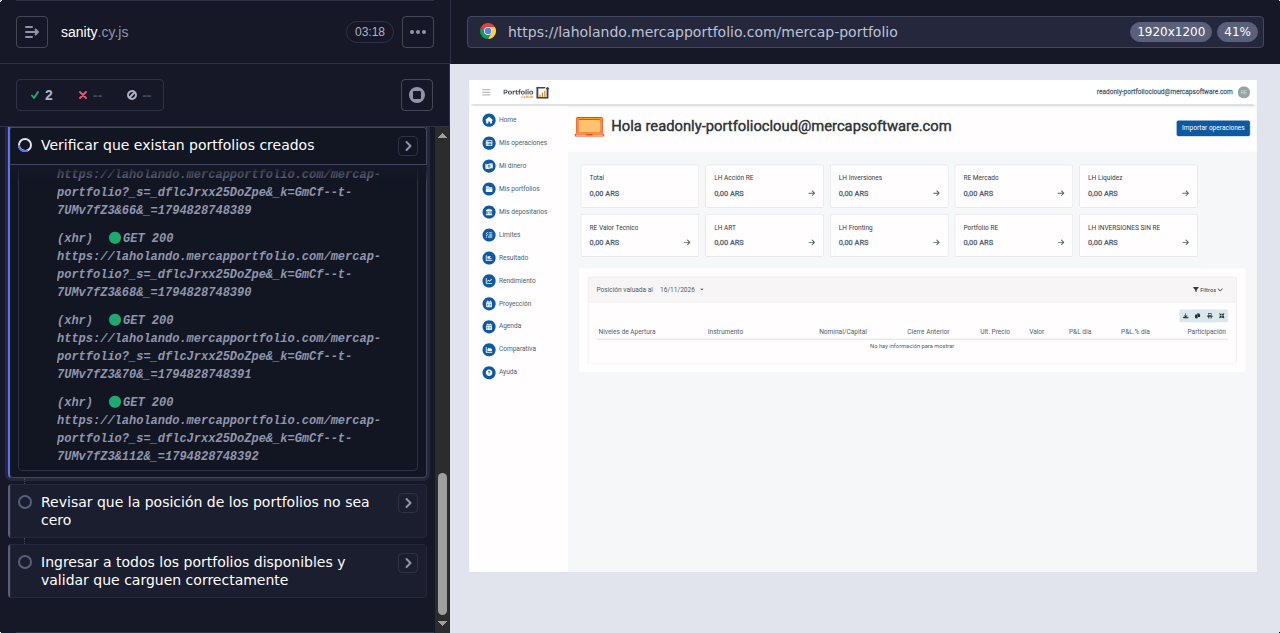
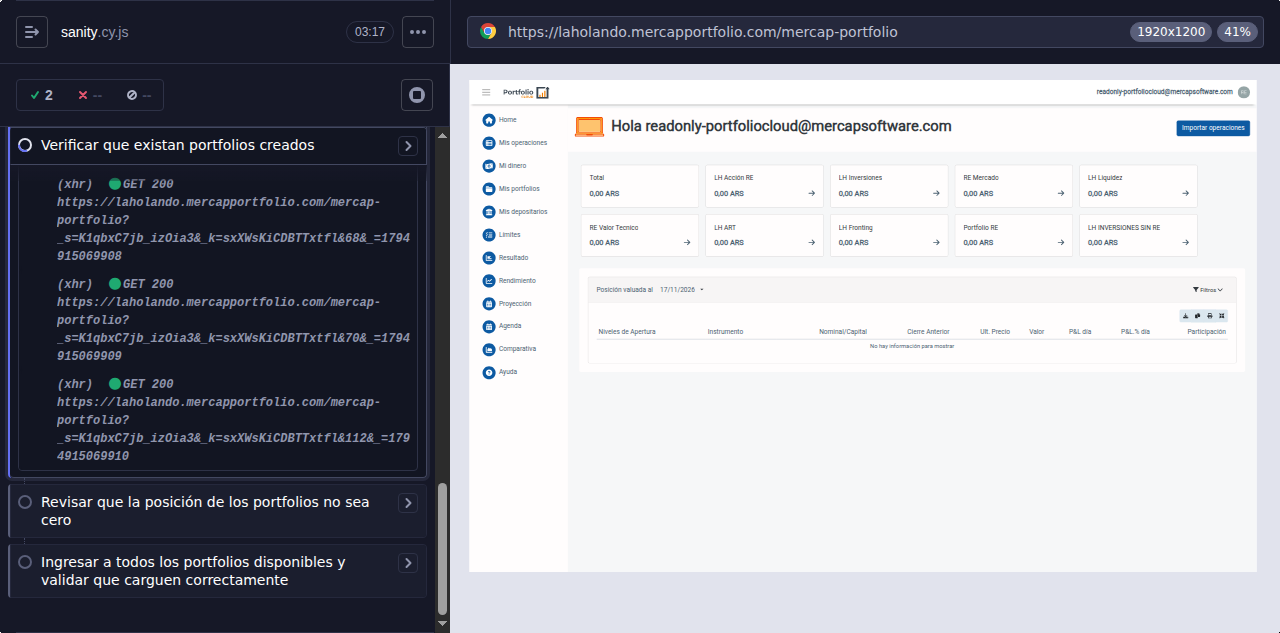
deploy: Mercap/portfolio-qa-tests@4aeec43ded94edbb944f34a9a0a7dde37aa3ffd3

Changed region(s): [[0.0312, 0.2701, 0.3125, 0.7504]]

diff --git a/mpc/Production/LH/sanity/index.html b/mpc/Production/LH/sanity/index.html
@@ -1,2 +1,2 @@
 <!doctype html>
-<html lang="en"><head><meta charSet="utf-8"/><meta http-equiv="X-UA-Compatible" content="IE=edge"/><meta name="viewport" content="width=device-width, initial-scale=1"/><title>Mochawesome Report</title><link rel="stylesheet" href="assets/app.css"/></head><body data-raw="{&quot;stats&quot;:{&quot;suites&quot;:1,&quot;tests&quot;:5,&quot;passes&quot;:2,&quot;pending&quot;:1,&quot;failures&quot;:1,&quot;testsRegistered&quot;:5,&quot;passPercent&quot;:40,&quot;pendingPercent&quot;:20,&quot;other&quot;:0,&quot;hasOther&quot;:false,&quot;skipped&quot;:1,&quot;hasSkipped&quot;:true,&quot;start&quot;:&quot;2026-11-16T11:32:11.868Z&quot;,&quot;end&quot;:&quot;2026-11-16T11:35:31.312Z&quot;,&quot;duration&quot;:199444},&quot;results&quot;:[{&quot;uuid&quot;:&quot;8dff92e3-c736-40ec-92f6-e4d2c8bcbb37&quot;,&quot;title&quot;:&quot;&quot;,&quot;fullFile&quot;:&quot;build/production/laholando/specs/sanity/sanity.cy.js&quot;,&quot;file&quot;:&quot;build/production/laholando/specs/sanity/sanity.cy.js&quot;,&quot;beforeHooks&quot;:[],&quot;afterHooks&quot;:[],&quot;tests&quot;:[],&quot;suites&quot;:[{&quot;uuid&quot;:&quot;8623993a-0679-4de4-bcc5-a0760aa8e32b&quot;,&quot;title&quot;:&quot;Precondición Admin Login&quot;,&quot;fullFile&quot;:&quot;&quot;,&quot;file&quot;:&quot;&quot;,&quot;beforeHooks&quot;:[],&quot;afterHooks&quot;:[],&quot;tests&quot;:[{&quot;title&quot;:&quot;Ingresar y hacer login en el admin de MPC&quot;,&quot;fullTitle&quot;:&quot;Precondición Admin Login Ingresar y hacer login en el admin de MPC&quot;,&quot;timedOut&quot;:null,&quot;duration&quot;:8585,&quot;state&quot;:&quot;passed&quot;,&quot;speed&quot;:&quot;medium&quot;,&quot;pass&quot;:true,&quot;fail&quot;:false,&quot;pending&quot;:false,&quot;context&quot;:null,&quot;code&quot;:&quot;cy.adminLoginMPC();&quot;,&quot;err&quot;:{},&quot;uuid&quot;:&quot;ee4a7851-7391-417b-b75b-9784ed51ff3e&quot;,&quot;parentUUID&quot;:&quot;8623993a-0679-4de4-bcc5-a0760aa8e32b&quot;,&quot;isHook&quot;:false,&quot;skipped&quot;:false}],&quot;suites&quot;:[],&quot;passes&quot;:[&quot;ee4a7851-7391-417b-b75b-9784ed51ff3e&quot;],&quot;failures&quot;:[],&quot;pending&quot;:[],&quot;skipped&quot;:[],&quot;duration&quot;:8585,&quot;root&quot;:false,&quot;rootEmpty&quot;:false,&quot;_timeout&quot;:2000},{&quot;uuid&quot;:&quot;c53f4d1b-a819-4ab0-bf39-4741a0da1cc3&quot;,&quot;title&quot;:&quot;Precondición MPC Login&quot;,&quot;fullFile&quot;:&quot;&quot;,&quot;file&quot;:&quot;&quot;,&quot;beforeHooks&quot;:[],&quot;afterHooks&quot;:[],&quot;tests&quot;:[{&quot;title&quot;:&quot;Login en MPC&quot;,&quot;fullTitle&quot;:&quot;Precondición MPC Login Login en MPC&quot;,&quot;timedOut&quot;:null,&quot;duration&quot;:2144,&quot;state&quot;:&quot;passed&quot;,&quot;speed&quot;:&quot;fast&quot;,&quot;pass&quot;:true,&quot;fail&quot;:false,&quot;pending&quot;:false,&quot;context&quot;:null,&quot;code&quot;:&quot;cy.visit(_support_constants__WEBPACK_IMPORTED_MODULE_0__[\&quot;default\&quot;].MPC_LOCATION);&quot;,&quot;err&quot;:{},&quot;uuid&quot;:&quot;c76c2eec-ab1f-4f9a-8307-0375bed0baa3&quot;,&quot;parentUUID&quot;:&quot;c53f4d1b-a819-4ab0-bf39-4741a0da1cc3&quot;,&quot;isHook&quot;:false,&quot;skipped&quot;:false}],&quot;suites&quot;:[],&quot;passes&quot;:[&quot;c76c2eec-ab1f-4f9a-8307-0375bed0baa3&quot;],&quot;failures&quot;:[],&quot;pending&quot;:[],&quot;skipped&quot;:[],&quot;duration&quot;:2144,&quot;root&quot;:false,&quot;rootEmpty&quot;:false,&quot;_timeout&quot;:2000},{&quot;uuid&quot;:&quot;a1bf3f25-8714-4116-99ae-e1bc98f3bf6d&quot;,&quot;title&quot;:&quot;Verificar la posición valuada de los portfolios&quot;,&quot;fullFile&quot;:&quot;&quot;,&quot;file&quot;:&quot;&quot;,&quot;beforeHooks&quot;:[],&quot;afterHooks&quot;:[],&quot;tests&quot;:[{&quot;title&quot;:&quot;Verificar que existan portfolios creados&quot;,&quot;fullTitle&quot;:&quot;Verificar la posición valuada de los portfolios Verificar que existan portfolios creados&quot;,&quot;timedOut&quot;:null,&quot;duration&quot;:180276,&quot;state&quot;:&quot;failed&quot;,&quot;speed&quot;:null,&quot;pass&quot;:false,&quot;fail&quot;:true,&quot;pending&quot;:false,&quot;context&quot;:null,&quot;code&quot;:&quot;cy.validacionesHome();\n    cy.skipEncuesta();&quot;,&quot;err&quot;:{&quot;message&quot;:&quot;AssertionError: Timed out retrying after 180000ms: Expected to find element: `rect[class=\&quot;highcharts-background\&quot;]`, but never found it.&quot;,&quot;estack&quot;:&quot;AssertionError: Timed out retrying after 180000ms: Expected to find element: `rect[class=\&quot;highcharts-background\&quot;]`, but never found it.\n    at Context.eval (webpack://cypress/./cypress/support/commands/home.commands.js:191:0)\n    at wrapped (https://mercap.auth0.com/__cypress/runner/cypress_runner.js:146042:43)&quot;,&quot;diff&quot;:null},&quot;uuid&quot;:&quot;dd36211b-ba30-453a-8fa8-5a30b30041be&quot;,&quot;parentUUID&quot;:&quot;a1bf3f25-8714-4116-99ae-e1bc98f3bf6d&quot;,&quot;isHook&quot;:false,&quot;skipped&quot;:false},{&quot;title&quot;:&quot;Revisar que la posición de los portfolios no sea cero&quot;,&quot;fullTitle&quot;:&quot;Verificar la posición valuada de los portfolios Revisar que la posición de los portfolios no sea cero&quot;,&quot;timedOut&quot;:null,&quot;duration&quot;:0,&quot;state&quot;:&quot;pending&quot;,&quot;speed&quot;:null,&quot;pass&quot;:false,&quot;fail&quot;:false,&quot;pending&quot;:true,&quot;context&quot;:null,&quot;code&quot;:&quot;cy.validarPortfoliosSinValorCero(&#x27;h6&#x27;, &#x27;h4&#x27;);&quot;,&quot;err&quot;:{},&quot;uuid&quot;:&quot;e25e78d3-6f2e-460f-9f6e-d73d50fc00bc&quot;,&quot;parentUUID&quot;:&quot;a1bf3f25-8714-4116-99ae-e1bc98f3bf6d&quot;,&quot;isHook&quot;:false,&quot;skipped&quot;:false},{&quot;title&quot;:&quot;Ingresar a todos los portfolios disponibles y validar que carguen correctamente&quot;,&quot;fullTitle&quot;:&quot;Verificar la posición valuada de los portfolios Ingresar a todos los portfolios disponibles y validar que carguen correctamente&quot;,&quot;timedOut&quot;:null,&quot;duration&quot;:0,&quot;state&quot;:&quot;skipped&quot;,&quot;speed&quot;:null,&quot;pass&quot;:false,&quot;fail&quot;:false,&quot;pending&quot;:false,&quot;context&quot;:null,&quot;code&quot;:&quot;cy.contains(&#x27;Mis portfolios&#x27;, { matchCase: false }).click();\n    cy.validacionesMisPortfolios();\n    cy.recorridaPortfolios();&quot;,&quot;err&quot;:{},&quot;uuid&quot;:&quot;6157f1f2-a72b-4878-aeec-15467a082cd9&quot;,&quot;parentUUID&quot;:&quot;a1bf3f25-8714-4116-99ae-e1bc98f3bf6d&quot;,&quot;isHook&quot;:false,&quot;skipped&quot;:true}],&quot;suites&quot;:[],&quot;passes&quot;:[],&quot;failures&quot;:[&quot;dd36211b-ba30-453a-8fa8-5a30b30041be&quot;],&quot;pending&quot;:[&quot;e25e78d3-6f2e-460f-9f6e-d73d50fc00bc&quot;],&quot;skipped&quot;:[&quot;6157f1f2-a72b-4878-aeec-15467a082cd9&quot;],&quot;duration&quot;:180276,&quot;root&quot;:false,&quot;rootEmpty&quot;:false,&quot;_timeout&quot;:2000}],&quot;passes&quot;:[],&quot;failures&quot;:[],&quot;pending&quot;:[],&quot;skipped&quot;:[],&quot;duration&quot;:0,&quot;root&quot;:true,&quot;rootEmpty&quot;:true,&quot;_timeout&quot;:2000}],&quot;meta&quot;:{&quot;mocha&quot;:{&quot;version&quot;:&quot;7.2.0&quot;},&quot;mochawesome&quot;:{&quot;options&quot;:{&quot;quiet&quot;:false,&quot;reportFilename&quot;:&quot;report&quot;,&quot;saveHtml&quot;:true,&quot;saveJson&quot;:true,&quot;consoleReporter&quot;:&quot;spec&quot;,&quot;useInlineDiffs&quot;:false,&quot;code&quot;:true},&quot;version&quot;:&quot;7.1.4&quot;},&quot;marge&quot;:{&quot;options&quot;:{&quot;reportDir&quot;:&quot;cypress/reports&quot;,&quot;overwrite&quot;:false,&quot;cleanReporterJson&quot;:false,&quot;html&quot;:true,&quot;json&quot;:true,&quot;reportFilename&quot;:&quot;report&quot;,&quot;embeddedScreenshots&quot;:true,&quot;inlineAssets&quot;:true},&quot;version&quot;:&quot;6.3.2&quot;}}}" data-config="{&quot;reportFilename&quot;:&quot;index&quot;,&quot;reportDir&quot;:&quot;cypress/reports&quot;,&quot;reportTitle&quot;:&quot;portfolio-qa-tests&quot;,&quot;reportPageTitle&quot;:&quot;Mochawesome Report&quot;,&quot;inline&quot;:false,&quot;inlineAssets&quot;:false,&quot;cdn&quot;:false,&quot;charts&quot;:false,&quot;enableCharts&quot;:false,&quot;code&quot;:true,&quot;enableCode&quot;:true,&quot;autoOpen&quot;:false,&quot;overwrite&quot;:true,&quot;timestamp&quot;:false,&quot;ts&quot;:false,&quot;showPassed&quot;:true,&quot;showFailed&quot;:true,&quot;showPending&quot;:true,&quot;showSkipped&quot;:false,&quot;showHooks&quot;:&quot;failed&quot;,&quot;saveJson&quot;:false,&quot;saveHtml&quot;:true,&quot;dev&quot;:false,&quot;assetsDir&quot;:&quot;cypress/reports/assets&quot;,&quot;htmlFile&quot;:&quot;/home/runner/work/portfolio-qa-tests/portfolio-qa-tests/cypress/reports/index.html&quot;}"><div id="report"></div><script src="assets/app.js"></script></body></html>
+<html lang="en"><head><meta charSet="utf-8"/><meta http-equiv="X-UA-Compatible" content="IE=edge"/><meta name="viewport" content="width=device-width, initial-scale=1"/><title>Mochawesome Report</title><link rel="stylesheet" href="assets/app.css"/></head><body data-raw="{&quot;stats&quot;:{&quot;suites&quot;:1,&quot;tests&quot;:5,&quot;passes&quot;:2,&quot;pending&quot;:1,&quot;failures&quot;:1,&quot;testsRegistered&quot;:5,&quot;passPercent&quot;:40,&quot;pendingPercent&quot;:20,&quot;other&quot;:0,&quot;hasOther&quot;:false,&quot;skipped&quot;:1,&quot;hasSkipped&quot;:true,&quot;start&quot;:&quot;2026-11-17T11:30:55.326Z&quot;,&quot;end&quot;:&quot;2026-11-17T11:34:13.888Z&quot;,&quot;duration&quot;:198562},&quot;results&quot;:[{&quot;uuid&quot;:&quot;04fcb2ab-dc9b-437d-bb02-317ac7af2fbb&quot;,&quot;title&quot;:&quot;&quot;,&quot;fullFile&quot;:&quot;build/production/laholando/specs/sanity/sanity.cy.js&quot;,&quot;file&quot;:&quot;build/production/laholando/specs/sanity/sanity.cy.js&quot;,&quot;beforeHooks&quot;:[],&quot;afterHooks&quot;:[],&quot;tests&quot;:[],&quot;suites&quot;:[{&quot;uuid&quot;:&quot;b5426bb8-7e79-4d81-be3c-ed2e3e7bb835&quot;,&quot;title&quot;:&quot;Precondición Admin Login&quot;,&quot;fullFile&quot;:&quot;&quot;,&quot;file&quot;:&quot;&quot;,&quot;beforeHooks&quot;:[],&quot;afterHooks&quot;:[],&quot;tests&quot;:[{&quot;title&quot;:&quot;Ingresar y hacer login en el admin de MPC&quot;,&quot;fullTitle&quot;:&quot;Precondición Admin Login Ingresar y hacer login en el admin de MPC&quot;,&quot;timedOut&quot;:null,&quot;duration&quot;:6693,&quot;state&quot;:&quot;passed&quot;,&quot;speed&quot;:&quot;medium&quot;,&quot;pass&quot;:true,&quot;fail&quot;:false,&quot;pending&quot;:false,&quot;context&quot;:null,&quot;code&quot;:&quot;cy.adminLoginMPC();&quot;,&quot;err&quot;:{},&quot;uuid&quot;:&quot;be442c39-d713-45df-abe5-a86d3029df82&quot;,&quot;parentUUID&quot;:&quot;b5426bb8-7e79-4d81-be3c-ed2e3e7bb835&quot;,&quot;isHook&quot;:false,&quot;skipped&quot;:false}],&quot;suites&quot;:[],&quot;passes&quot;:[&quot;be442c39-d713-45df-abe5-a86d3029df82&quot;],&quot;failures&quot;:[],&quot;pending&quot;:[],&quot;skipped&quot;:[],&quot;duration&quot;:6693,&quot;root&quot;:false,&quot;rootEmpty&quot;:false,&quot;_timeout&quot;:2000},{&quot;uuid&quot;:&quot;8baf0e7e-d0b9-434a-9b90-3168cb88a7b1&quot;,&quot;title&quot;:&quot;Precondición MPC Login&quot;,&quot;fullFile&quot;:&quot;&quot;,&quot;file&quot;:&quot;&quot;,&quot;beforeHooks&quot;:[],&quot;afterHooks&quot;:[],&quot;tests&quot;:[{&quot;title&quot;:&quot;Login en MPC&quot;,&quot;fullTitle&quot;:&quot;Precondición MPC Login Login en MPC&quot;,&quot;timedOut&quot;:null,&quot;duration&quot;:2386,&quot;state&quot;:&quot;passed&quot;,&quot;speed&quot;:&quot;fast&quot;,&quot;pass&quot;:true,&quot;fail&quot;:false,&quot;pending&quot;:false,&quot;context&quot;:null,&quot;code&quot;:&quot;cy.visit(_support_constants__WEBPACK_IMPORTED_MODULE_0__[\&quot;default\&quot;].MPC_LOCATION);&quot;,&quot;err&quot;:{},&quot;uuid&quot;:&quot;ffcf970a-0d4c-4aeb-b23d-3caba8f12143&quot;,&quot;parentUUID&quot;:&quot;8baf0e7e-d0b9-434a-9b90-3168cb88a7b1&quot;,&quot;isHook&quot;:false,&quot;skipped&quot;:false}],&quot;suites&quot;:[],&quot;passes&quot;:[&quot;ffcf970a-0d4c-4aeb-b23d-3caba8f12143&quot;],&quot;failures&quot;:[],&quot;pending&quot;:[],&quot;skipped&quot;:[],&quot;duration&quot;:2386,&quot;root&quot;:false,&quot;rootEmpty&quot;:false,&quot;_timeout&quot;:2000},{&quot;uuid&quot;:&quot;ebf1e7e3-167a-4865-a844-e276921c12a0&quot;,&quot;title&quot;:&quot;Verificar la posición valuada de los portfolios&quot;,&quot;fullFile&quot;:&quot;&quot;,&quot;file&quot;:&quot;&quot;,&quot;beforeHooks&quot;:[],&quot;afterHooks&quot;:[],&quot;tests&quot;:[{&quot;title&quot;:&quot;Verificar que existan portfolios creados&quot;,&quot;fullTitle&quot;:&quot;Verificar la posición valuada de los portfolios Verificar que existan portfolios creados&quot;,&quot;timedOut&quot;:null,&quot;duration&quot;:180252,&quot;state&quot;:&quot;failed&quot;,&quot;speed&quot;:null,&quot;pass&quot;:false,&quot;fail&quot;:true,&quot;pending&quot;:false,&quot;context&quot;:null,&quot;code&quot;:&quot;cy.validacionesHome();\n    cy.skipEncuesta();&quot;,&quot;err&quot;:{&quot;message&quot;:&quot;AssertionError: Timed out retrying after 180000ms: Expected to find element: `rect[class=\&quot;highcharts-background\&quot;]`, but never found it.&quot;,&quot;estack&quot;:&quot;AssertionError: Timed out retrying after 180000ms: Expected to find element: `rect[class=\&quot;highcharts-background\&quot;]`, but never found it.\n    at Context.eval (webpack://cypress/./cypress/support/commands/home.commands.js:191:0)\n    at wrapped (https://mercap.auth0.com/__cypress/runner/cypress_runner.js:146042:43)&quot;,&quot;diff&quot;:null},&quot;uuid&quot;:&quot;b56e0e40-174f-4479-8570-46d7b450b811&quot;,&quot;parentUUID&quot;:&quot;ebf1e7e3-167a-4865-a844-e276921c12a0&quot;,&quot;isHook&quot;:false,&quot;skipped&quot;:false},{&quot;title&quot;:&quot;Revisar que la posición de los portfolios no sea cero&quot;,&quot;fullTitle&quot;:&quot;Verificar la posición valuada de los portfolios Revisar que la posición de los portfolios no sea cero&quot;,&quot;timedOut&quot;:null,&quot;duration&quot;:0,&quot;state&quot;:&quot;pending&quot;,&quot;speed&quot;:null,&quot;pass&quot;:false,&quot;fail&quot;:false,&quot;pending&quot;:true,&quot;context&quot;:null,&quot;code&quot;:&quot;cy.validarPortfoliosSinValorCero(&#x27;h6&#x27;, &#x27;h4&#x27;);&quot;,&quot;err&quot;:{},&quot;uuid&quot;:&quot;b7054ba1-5e7c-4404-a957-74b871f27a9d&quot;,&quot;parentUUID&quot;:&quot;ebf1e7e3-167a-4865-a844-e276921c12a0&quot;,&quot;isHook&quot;:false,&quot;skipped&quot;:false},{&quot;title&quot;:&quot;Ingresar a todos los portfolios disponibles y validar que carguen correctamente&quot;,&quot;fullTitle&quot;:&quot;Verificar la posición valuada de los portfolios Ingresar a todos los portfolios disponibles y validar que carguen correctamente&quot;,&quot;timedOut&quot;:null,&quot;duration&quot;:0,&quot;state&quot;:&quot;skipped&quot;,&quot;speed&quot;:null,&quot;pass&quot;:false,&quot;fail&quot;:false,&quot;pending&quot;:false,&quot;context&quot;:null,&quot;code&quot;:&quot;cy.contains(&#x27;Mis portfolios&#x27;, { matchCase: false }).click();\n    cy.validacionesMisPortfolios();\n    cy.recorridaPortfolios();&quot;,&quot;err&quot;:{},&quot;uuid&quot;:&quot;ed72ba14-28de-4598-babf-1653e0303bf4&quot;,&quot;parentUUID&quot;:&quot;ebf1e7e3-167a-4865-a844-e276921c12a0&quot;,&quot;isHook&quot;:false,&quot;skipped&quot;:true}],&quot;suites&quot;:[],&quot;passes&quot;:[],&quot;failures&quot;:[&quot;b56e0e40-174f-4479-8570-46d7b450b811&quot;],&quot;pending&quot;:[&quot;b7054ba1-5e7c-4404-a957-74b871f27a9d&quot;],&quot;skipped&quot;:[&quot;ed72ba14-28de-4598-babf-1653e0303bf4&quot;],&quot;duration&quot;:180252,&quot;root&quot;:false,&quot;rootEmpty&quot;:false,&quot;_timeout&quot;:2000}],&quot;passes&quot;:[],&quot;failures&quot;:[],&quot;pending&quot;:[],&quot;skipped&quot;:[],&quot;duration&quot;:0,&quot;root&quot;:true,&quot;rootEmpty&quot;:true,&quot;_timeout&quot;:2000}],&quot;meta&quot;:{&quot;mocha&quot;:{&quot;version&quot;:&quot;7.2.0&quot;},&quot;mochawesome&quot;:{&quot;options&quot;:{&quot;quiet&quot;:false,&quot;reportFilename&quot;:&quot;report&quot;,&quot;saveHtml&quot;:true,&quot;saveJson&quot;:true,&quot;consoleReporter&quot;:&quot;spec&quot;,&quot;useInlineDiffs&quot;:false,&quot;code&quot;:true},&quot;version&quot;:&quot;7.1.4&quot;},&quot;marge&quot;:{&quot;options&quot;:{&quot;reportDir&quot;:&quot;cypress/reports&quot;,&quot;overwrite&quot;:false,&quot;cleanReporterJson&quot;:false,&quot;html&quot;:true,&quot;json&quot;:true,&quot;reportFilename&quot;:&quot;report&quot;,&quot;embeddedScreenshots&quot;:true,&quot;inlineAssets&quot;:true},&quot;version&quot;:&quot;6.3.2&quot;}}}" data-config="{&quot;reportFilename&quot;:&quot;index&quot;,&quot;reportDir&quot;:&quot;cypress/reports&quot;,&quot;reportTitle&quot;:&quot;portfolio-qa-tests&quot;,&quot;reportPageTitle&quot;:&quot;Mochawesome Report&quot;,&quot;inline&quot;:false,&quot;inlineAssets&quot;:false,&quot;cdn&quot;:false,&quot;charts&quot;:false,&quot;enableCharts&quot;:false,&quot;code&quot;:true,&quot;enableCode&quot;:true,&quot;autoOpen&quot;:false,&quot;overwrite&quot;:true,&quot;timestamp&quot;:false,&quot;ts&quot;:false,&quot;showPassed&quot;:true,&quot;showFailed&quot;:true,&quot;showPending&quot;:true,&quot;showSkipped&quot;:false,&quot;showHooks&quot;:&quot;failed&quot;,&quot;saveJson&quot;:false,&quot;saveHtml&quot;:true,&quot;dev&quot;:false,&quot;assetsDir&quot;:&quot;cypress/reports/assets&quot;,&quot;htmlFile&quot;:&quot;/home/runner/work/portfolio-qa-tests/portfolio-qa-tests/cypress/reports/index.html&quot;}"><div id="report"></div><script src="assets/app.js"></script></body></html>
